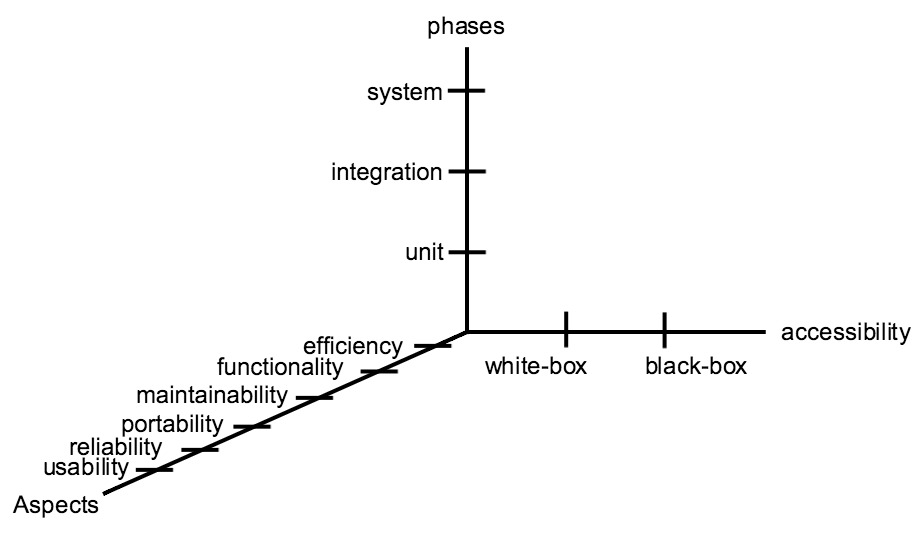
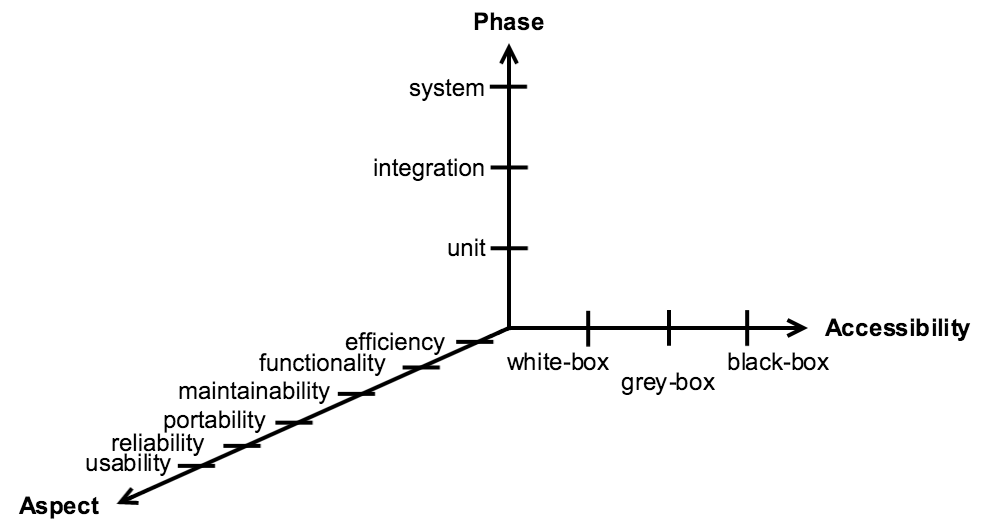
Rewrite CH2.1

Changed region(s): [[0.0, 0.0301, 1.0, 0.9944]]

diff --git a/src/related-work/1_testing.tex b/src/related-work/1_testing.tex
@@ -3,20 +3,22 @@
 
 Software testing is the process of executing a program or system
 with the intent of finding errors \cite{Myers:1979:AST:539883}.
-Testing shows the presence, not the absence of bugs as Edsger
-Wybe Dijkstra used to say \cite{Buxton:1970:SET:1102021}.
+Indeed, testing shows the presence, not the absence of
+\emph{bugs}, \emph{i.e.} faults or errors, as Edsger Wybe
+Dijkstra used to say \cite{Buxton:1970:SET:1102021}.
 
 Testing is achieved by analyzing a software to detect the
 differences between existing and required conditions (that is,
 bugs) and to evaluate the features of this software. As Myers
-explained \cite{Myers:1979:AST:539883}, testing is used to find
-faults, but it is also useful to provide confidence of
+explained in \cite{Myers:1979:AST:539883}, testing is used to
+find faults, but it is also useful to provide confidence of
 reliability, correctness, and absence of particular faults on
 software we develop. This does not mean that the software is
 completely free of defects. Rather, it must be good enough for
-its intended use.  Testing is a verification and validation
-(V\&V) process \cite{wallace1989software}. We use to (informally)
-explain both terms with the following questions \cite{Boehm1979}:
+its intended use. Testing is a \emph{verification and validation}
+(V\&V) process \cite{wallace1989software}. One uses to
+(informally) explain both terms with the following questions
+\cite{Boehm1979}:
 
 \begin{itemize}
     \item \textbf{Validation:} are we building the right software?
@@ -43,14 +45,15 @@ behaviors). Such phenomena can be represented by the existence of
 suitable \textit{verdict}, which expresses the assessment made.
 The two most well-known verdicts are $Pass$ and $Fail$.
 We call \textit{test case} (TC), a structure that is compound of
-\textit{test data}, \emph{i.e.}  inputs which have been devised to test
-the system, an expected behavior, and an expected output. A set
-of test cases is called a \textit{test suite} (TS).
+\textit{test data}, \emph{i.e.}  inputs which have been devised
+to test the system, an expected behavior, and an expected output
+\cite{5733835}. A set of test cases is called a \textit{test
+suite} (TS).
 
 In the following section, we introduce the software testing
-realm. We focus on Model-based Testing, presented in Section
-\ref{sec:related:testing:mbt} along with some definitions used
-in the rest of this thesis.
+realm. In Section \ref{sec:related:testing:mbt}, we focus on
+Model-based Testing along with some definitions used in the rest
+of this thesis.
 
 \subsection{Types of testing}
 
@@ -63,41 +66,91 @@ Unit Testing, Integration Testing, Functional Testing, System
 Testing, Stress Testing, Performance Testing, Usability Testing,
 Acceptance Testing, Regression Testing, Beta Testing, and so on.
 
-\TODO{link between two paragraphs}
+All these terms refer to different testing practices that can be
+sorted in three different manners as depicted in Figure
+\ref{fig:sorts-of-testing}: by \emph{aspect}, by \emph{phase},
+and/or by \emph{accessibility}.
 
-ISO 9126 \cite{iso9126}, replaced by ISO/IEC 25010:2011
-\cite{10951538}, provides six characteristics of quality that can
-be used to sort these testing techniques into six testing types:
+First, ISO 9126 \cite{iso9126}, replaced by ISO/IEC 25010:2011
+\cite{10951538}, provides six characteristics of quality (also
+called aspects) that can be used to sort these testing techniques
+into six testing types:
 
 \begin{itemize}
-\item Efficiency testing;
-\item Functionality testing;
-\item Maintainability testing;
-\item Portability testing;
-\item Reliability testing;
-\item Usability testing.
+    \item \textbf{Efficiency testing:} the capability of the
+        software product to provide appropriate performance,
+        relative to the amount of resources used, under stated
+        conditions \cite{iso9126};
+
+    \item \textbf{Functionality testing:} the capability of the
+        software product to provide functions which meet stated
+        and implied needs when the software is used under
+        specified conditions \cite{iso9126};
+
+    \item \textbf{Maintainability testing:} the capability of the
+        software product to be modified. Modifications may
+        include corrections, improvements or adaptation of the
+        software to changes in environment, and in requirements
+        and functional specifications \cite{iso9126};
+
+    \item \textbf{Portability testing:} the capability of the
+        software product to be transferred from one environment
+        to another \cite{iso9126};
+
+    \item \textbf{Reliability testing:} the capability of the
+        software product to maintain a specified level of
+        performance when used under specified conditions
+        \cite{iso9126};
+
+    \item \textbf{Usability testing:} capability of the software
+        product to be understood, learned, used and attractive to
+        the user, when used under specified conditions
+        \cite{iso9126}.
 \end{itemize}
 
-Yet, this classification can not be generally accepted as
-single or complete. In \cite{4425813}, authors suggested to
-classify the different techniques based on the target of the
-test (sometimes we refer to this classification as level of
-detail or \emph{phase} as shown in Figure
-\ref{fig:sorts-of-testing}):
+ISO/IEC 25010:2011 \cite{10951538}, which replaced ISO 9126
+\cite{iso9126}, counts eight product quality characteristics,
+including two new categories:
 
 \begin{itemize}
-\item \textbf{Unit Testing:} units (\emph{e.g.}, functions, methods,
-modules) of the system are tested in isolation. Typically this
-testing type implies access to the source code being tested;
+    \item \textbf{Security:} the degree to which a product or
+        system protects information and data so that persons or
+        other products or systems have the degree of data access
+        appropriate to their types and levels of authorization
+        \cite{10951538};
 
-\item \textbf{Integration Testing:} interactions between software
-components are tested. This testing type is a continuous task,
-hence the \textit{continuous integration} (CI) practice;
+    \item \textbf{Compatibility:} the degree to which a product,
+        system or component can exchange information with other
+        products, systems or components, and/or perform its
+        required functions, while sharing the same hardware or
+        software environment \cite{10951538}.
+\end{itemize}
 
-\item \textbf{System Testing:} the whole system is taken into
-consideration. This testing type is appropriate for validating
-not-only-functional requirements, such as security, performance
-(speed), accuracy, and reliability (fault tolerance).
+Yet, these classifications can not be generally accepted as
+single or complete. In \cite{4425813}, authors suggested to
+classify the different techniques based on the target of the test
+(sometimes we refer to this classification as level of detail or
+phase as shown in Figure \ref{fig:sorts-of-testing}):
+
+\begin{itemize}
+    \item \textbf{Unit testing:} individual units (\emph{e.g.},
+        functions, methods, modules) or groups of related units
+        of the system are tested in isolation
+        \cite{ieee610121990}. Typically this testing type implies
+        access to the source code being tested;
+
+    \item \textbf{Integration testing:} interactions between
+        software components are tested \cite{ieee610121990}. This
+        testing type is a continuous task, hence the continuous
+        integration (CI) practice;
+
+    \item \textbf{System Testing:} the whole system is taken into
+        consideration to evaluate the system's compliance with
+        its specified requirements \cite{ieee610121990}. This
+        testing type is also appropriate for validating
+        not-only-functional requirements, such as security,
+        performance (speed), accuracy, and reliability (fault
+        tolerance).
 \end{itemize}
 
 \begin{figure}[ht]
@@ -110,34 +163,39 @@ not-only-functional requirements, such as security, performance
     target of the test), and by accessibility (related to the
     information available to construct the test cases).}
     \label{fig:sorts-of-testing}
-
-    \TODO{add grey-box, add arrows}
 \end{figure}
 
 These requirements are sometimes seen as \textit{objectives} of
 testing, leading to even more different testing types as listed
-before. There are also different approaches (or perspectives) to
-perform testing, depending on the information available to
-construct the test cases, \emph{i.e.} accessibility:
-
-\TODO{ref for each W,G,B}
+before. There are also different test approaches \cite{5733835}
+(or perspectives) to perform testing, depending on the
+information available to construct the test cases, \emph{i.e.}
+accessibility:
 
 \begin{itemize}
-    \item \textbf{White-box:} a method that tests the internal
-        structure of a SUT. It is usually done at the unit level;
+    \item \textbf{White-box testing:} (also known as \emph{glass box}
+        \cite{5733835}) a method that tests the internal
+        structure of a SUT. It is usually done at the unit level.
+        This technique is also known as \emph{structural testing}
+        \cite{5733835};
 
-    \item \textbf{Black-box:} a method that tests the functionalities
-        of a SUT without knowing its internal structure. The behavior
-        of the \textit{implementation under test} (IUT) is only
-        visible through a restricted interface called \textit{Points
-        of Control and Observation} (PCOs). Such a technique is also
-        known as functional testing;
+    \item \textbf{Black-box testing:} a method that tests the
+        functionalities of a SUT without knowing its internal
+        structure. The behavior of the \textit{implementation
+        under test} (IUT) is only visible through a restricted
+        interface called \textit{Points of Control and
+        Observation} (PCOs). Such a technique is often known as
+        functional testing \cite{5733835};
 
-    \item \textbf{Grey-box:} the combination of white-box testing and
-        black-box testing. One has access to the relevant internal
-        parts of a SUT.
-        \TODO{more on this}
+    \item \textbf{Grey-box testing:} the combination of white-box testing
+        and black-box testing. One has access to the relevant
+        parts of a SUT such as limited knowledge of the internal
+        part of the SUT, and also knowledge of its fundamental
+        aspects \cite{khan2012comparative}. This technique is
+        sometimes called \emph{translucent testing}.
 \end{itemize}
+
+\TODO{link}
 
 \subsubsection{Test selection}
 
@@ -146,42 +204,54 @@ challenge is to select subset of test cases from all possible
 test cases with a high chance of detecting most faults. A lot of
 research on \textit{test selection} (or strategies) has been
 done, and there are numerous existing methods for both black-box
-and white-box approaches.\TODO{grey-box?}
+and white-box approaches:
 
-\paragraph{Black-box strategies.} Combinatorial Testing (also
-known as Pairwise) \cite{Tai98atest} is based on the observation
-that most faults are caused by interactions of at most two
-factors. Here we test all the possible discrete combinations of
-the parameters involved.  Because we cannot test all the possible
-input domain values for practical reasons, Equivalence
-Partitioning \cite{Huang13} is a technique that divides the test
-input data into a range of values, and selects one input value
-from each range. Similarly, Boundary Value Analysis
-\cite{Ramachandran:2003:TSC:942796.943301} is used to find the
-errors at boundaries of input domain rather than finding those
-errors in the center of input. We can also mention Functional
-Coverage (also known as Inductive Testing)
-\cite{Walkinshaw:2010:IFC:1928028.1928038} where a test set is
-good enough when it achieves a given level of coverage.
+\begin{itemize}
+    \item \textbf{Black-box strategies:} Combinatorial Testing
+        (also known as Pairwise) \cite{Tai98atest} is based on
+        the observation that most faults are caused by
+        interactions of at most two factors. Here we test all the
+        possible discrete combinations of the parameters
+        involved.  Because we cannot test all the possible input
+        domain values for practical reasons, Equivalence
+        Partitioning \cite{Huang13} is a technique that divides
+        the test input data into a range of values, and selects
+        one input value from each range. Similarly, Boundary
+        Value Analysis \cite{Ramachandran:2003:TSC:942796.943301}
+        is used to find the errors at boundaries of input domain
+        rather than finding those errors in the center of input.
+        We can also mention Functional Coverage (also known as
+        Inductive Testing)
+        \cite{Walkinshaw:2010:IFC:1928028.1928038} where a test
+        set is good enough when it achieves a given level of
+        coverage;
 
-\paragraph{White-box strategies.} Fuzz Testing also known as
-Random Testing
-\cite{Duran:1981:RRT:800078.802530,Godefroid08automatedwhitebox}
-is a method that applies random mutations to well-formed inputs
-of a program, and test the resulting values. Such a technique can
-also be applied using a black-box approach though, \emph{e.g.},
-\cite{5387827}.  Statistical Testing
-\cite{Walton:1995:STS:210453.210458} is a technique where test
-data is generated by sampling from a probability distribution
-chosen so that each element of the software's structure is
-exercised with a high probability. We can also mention all
-techniques related to the code structure, such as Statement
-Testing, Path Testing, Branch Testing, Condition Testing,
-Multiple Condition (MC) Testing, and Loop Testing.  Another
-technique acts on the source code by mutating it, \emph{i.e.}  seeding
-the implementation with a fault by applying a mutation operator,
-and then determining whether testing identifies this fault. This
-is known as Mutation Testing \cite{1702444}.
+    \item \textbf{White-box strategies:} Fuzz Testing also known
+        as Random Testing
+        \cite{Duran:1981:RRT:800078.802530,Godefroid08automatedwhitebox}
+        is a method that applies random mutations to well-formed
+        inputs of a program, and test the resulting values. Such
+        a technique can also be applied using a black-box
+        approach though, \emph{e.g.}, \cite{5387827}.
+        Statistical Testing \cite{Walton:1995:STS:210453.210458}
+        is a technique where test data is generated by sampling
+        from a probability distribution chosen so that each
+        element of the software's structure is exercised with a
+        high probability. We can also mention all techniques
+        related to the code structure, such as Statement Testing,
+        Path Testing, Branch Testing, Condition Testing, Multiple
+        Condition (MC) Testing, and Loop Testing.  Another
+        technique acts on the source code by mutating it,
+        \emph{i.e.}  seeding the implementation with a fault by
+        applying a mutation operator, and then determining
+        whether testing identifies this fault. This is known as
+        Mutation Testing \cite{1702444}.
+\end{itemize}
+
+The \textbf{grey-box} approach remains vague, and does not own
+any proper strategy \emph{per se}. Nonetheless, the main
+advantage of grey-box is to be able to combine the existing
+white- and black-box strategies.
 
 While the Industry created many different testing tools (often
 originating from Academia), they mostly perform testing by hand.
